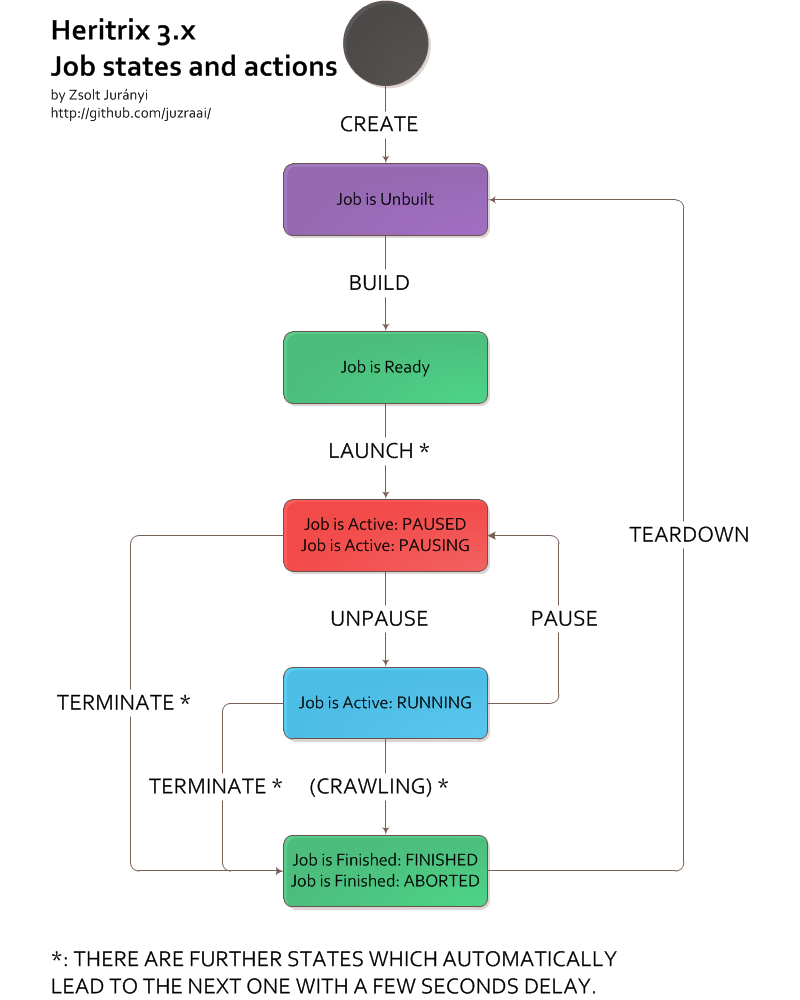
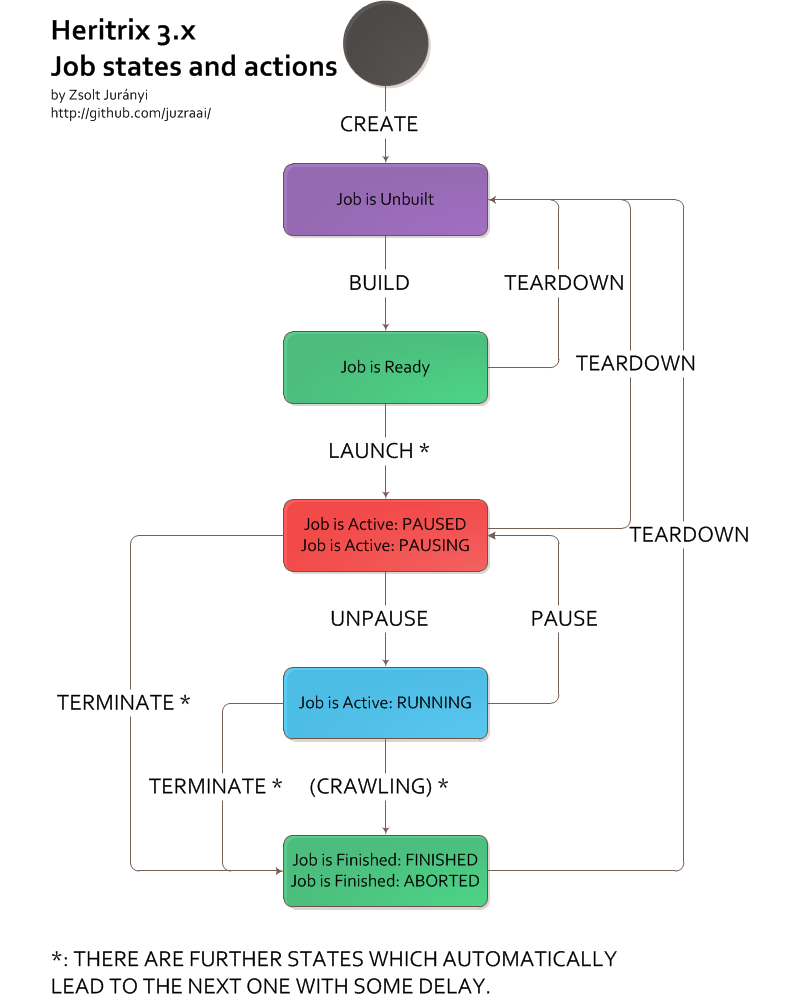
Some bug fix, job state graph update

Changed region(s): [[0.4375, 0.961, 0.7188, 1.0], [0.7188, 0.341, 0.875, 0.372], [0.625, 0.279, 0.7812, 0.31]]

diff --git a/src/hu/juranyi/zsolt/heritrixremote/HeritrixRemote.java b/src/hu/juranyi/zsolt/heritrixremote/HeritrixRemote.java
@@ -122,14 +122,14 @@ public class HeritrixRemote {
      */
     private static void statusCommand() {
         String lineFormat = "%-8s | %-15s | %s\n";
-        
+
         // table header
         System.out.printf(lineFormat, "STATE", "START TIME", "JOB DIRECTORY");
         for (int i = 0; i < 78; i++) {
             System.out.print(((9 == i || 27 == i) ? "+" : "-"));
         }
         System.out.println();
-        
+
         // table rows
         for (Job job : fetchNeededJobs()) {
             Date startDate = job.getStartDate();
@@ -166,11 +166,11 @@ public class HeritrixRemote {
     }
 
     private static void teardownCommand() {
-        basicAction("teardown", new JobState[]{JobState.PAUSED, JobState.FINISHED});
+        basicAction("teardown", new JobState[]{JobState.READY, JobState.PAUSED, JobState.FINISHED});
     }
 
     private static void terminateCommand() {
-        basicAction("teardown", new JobState[]{JobState.PAUSED, JobState.RUNNING, JobState.FINISHED});
+        basicAction("terminate", new JobState[]{JobState.PAUSED, JobState.RUNNING});
         // TODO wait (?)        
     }
 }

diff --git a/src/hu/juranyi/zsolt/heritrixremote/model/Job.java b/src/hu/juranyi/zsolt/heritrixremote/model/Job.java
@@ -29,7 +29,7 @@ public class Job {
     public Job(Heritrix heritrix, List<String> seedURLs) {
         this.heritrix = heritrix;
         this.seedURLs = seedURLs;
-        dir = seedURLs.get(0).toLowerCase().replaceAll("[^a-z]+", "-");
+        dir = seedURLs.get(0).toLowerCase().replaceAll("[^a-z]+", "-").replaceAll("-$", "");
     }
 
     public String getDir() {
@@ -69,7 +69,7 @@ public class Job {
         return seedURLs;
     }
 
-    private JobState fetchState() { // TODO TEST fetchState()
+    private JobState fetchState() {
         try {
             String response = new HeritrixCall(heritrix).path("job/" + getDir()).getResponse();
             Elements elements = Jsoup.parse(response).select("h2");
